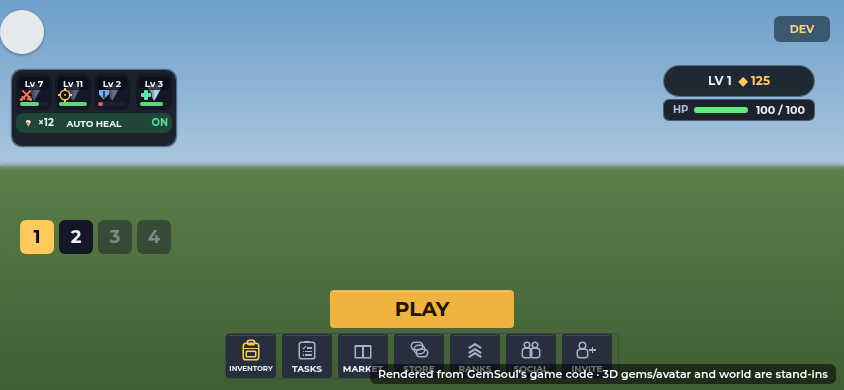
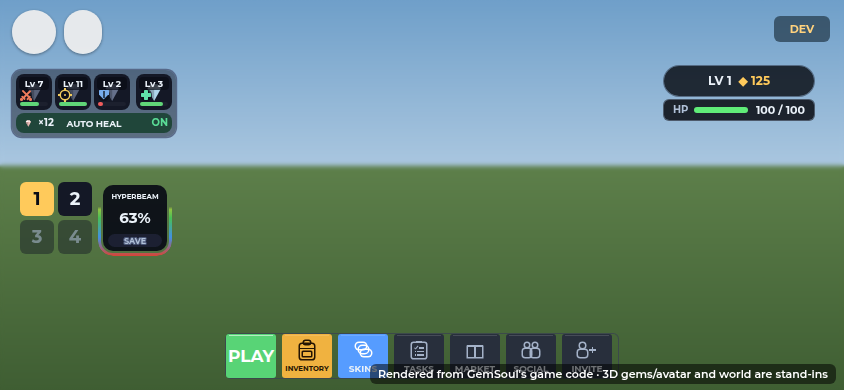
Phone: team keys 1-4 two by two, the HYPERBEAM beside them
The phone's team keys were a row of four above the move stick with the
HYPERBEAM button after them, 226 points across. Now the keys are two by
two (34 square, MobileLayout.keys) and the HYPERBEAM sits just right of
them, as tall as they are, its rim level with their top and bottom
(MobileLayout.beam, 64 wide): 150 points across.

- On the shortest phones (812 by 375) the keys shrink to 30 and sit
  nearer the stick to keep clear of CATCH; CATCH is 2 points shorter
  and 2 nearer the card (MobileLayout.Tame) to make the room.
- The tile's HYPERBEAM title keeps well in from its sides; on a phone
  it ran under the rim, cut off as HYPERBEA. Its state gets the tile's
  extra height.
- tests/mobile_layout_cases: two by two, full size from 844 by 390 up,
  clear of CATCH, the HYPERBEAM as tall as the keys and clear of the
  move stick, the pair no wider than the old row of keys alone.
- docs: kaiju.md and mobile.md, and their phone renders.

Claude-Session: https://claude.ai/code/session_01M9AaiFqQ2dWL5tTu8tuKaL

Changed region(s): [[0.2464, 0.7385, 0.6161, 0.9846], [0.0, 0.0308, 0.2156, 0.4], [0.0, 0.4615, 0.2156, 0.6769]]

diff --git a/docs/kaiju.md b/docs/kaiju.md
@@ -639,20 +639,27 @@ above the combat HUD near the bottom center:
   the world shows round the tiles; the tiles and AUTO HEAL keep their
   solid backs.
 
-  **The team keys 1 2 3 4 are off the card**: a row of their own, 34
-  points square, just above the move stick, under your left thumb
-  (`MobileLayout.keys`). They used to sit at the end of the row; while you
-  hunted the whole row moved over to the right, across the middle of the
-  screen and onto DODGE.
+  **The team keys 1 2 3 4 are off the card**, two by two (*2026-10-28*;
+  a row of four before), 34 points square, just above the move stick,
+  under your left thumb (`MobileLayout.keys`). On the shortest phones
+  (812 by 375) they're 30 and sit a little nearer the stick, to keep clear
+  of CATCH under the card. They used to sit at the end of the card's row;
+  while you hunted the whole row moved over to the right, across the
+  middle of the screen and onto DODGE.
 
   **The HYPERBEAM is a button of its own**, *2026-10-27*: just right of
-  the team keys, level with their bottom, over the FIGHT / MINE switch
-  (`MobileLayout.beam`, 60 by 52). It reads HYPERBEAM over its percent
-  (READY! when it's full), with SAVE a strip along its bottom; its meter is
-  its own rim, filling from the bottom up in your team's colours. It sits
-  clear of the fight's vitals and moves on the smallest phone.
+  the team keys and as tall as they are (its rim level with their top and
+  bottom), 64 wide, over the FIGHT / MINE switch (`MobileLayout.beam`).
+  *2026-10-28:* with the keys two by two it moved left beside them; the
+  keys and the button take 150 points across, where the row of keys and
+  the button took 226. It reads HYPERBEAM over its percent (READY! when
+  it's full), with SAVE a strip along its bottom; its meter is its own
+  rim, filling from the bottom up in your team's colours. Its title keeps
+  well in from the tile's sides (on a phone it ran under the rim, cut off
+  as HYPERBEA). It sits clear of the fight's vitals and moves on the
+  smallest phone.
 
-  ![The kaiju grid on a phone, the team keys above the move stick](kaiju/hud-phone-grid.png)
+  ![The kaiju grid on a phone, the team keys two by two above the move stick and the HYPERBEAM beside them. Offline render, not a Roblox screenshot](kaiju/hud-phone-grid.png)
 
   ![In a fight: before and now](kaiju/hud-phone-grid-hunting.png)
 
@@ -753,8 +760,8 @@ blast together. It works the same in mining and in fights.
   - **Blasting:** BLASTING!
 
   On a phone it isn't on the card: it's a button of its own right of the
-  team keys, its rim the meter, filling from the bottom up (the slot's
-  `Apart` attribute; see [Your team](#your-team)).
+  team keys and as tall as they are, its rim the meter, filling from the
+  bottom up (the slot's `Apart` attribute; see [Your team](#your-team)).
 
   It's light to run: it redraws only when what it shows changes, and moves
   only while it's ready.
@@ -763,7 +770,7 @@ blast together. It works the same in mining and in fights.
 
   ![The kaiju card with its outline as the HYPERBEAM meter: charging, saving, ready and blasting, its pill on the bottom edge. Offline render of the game's UI code, not a Roblox screenshot](kaiju/hyperbeam-states.png)
 
-  ![On a phone: the HYPERBEAM's own button right of the team keys, charging at 63% and ready. Offline render, not a Roblox screenshot](kaiju/hyperbeam-phone.png)
+  ![On a phone: the team keys two by two and the HYPERBEAM's own button beside them, charging at 63% and ready. Offline render, not a Roblox screenshot](kaiju/hyperbeam-phone.png)
 - **The blast** (`KaijuBeamServer`, 6.1 seconds, `KaijuBeam.timeline`).
   Since 2026-10-26 it all happens in front of you, seen from your own
   view: no cinematic camera.

diff --git a/docs/mobile.md b/docs/mobile.md
@@ -205,12 +205,15 @@ the left. Now:
   (`MobileLayout.kaiju`): the three fighters and the support in a row,
   AUTO HEAL a slim row under them. *2026-10-27:* it was one long row (351
   wide) that moved across the middle of the screen while you hunted.
-- **The team keys 1–4** have their own row just above the move stick,
-  under your left thumb (`MobileLayout.keys`; the team that's out is gold).
+- **The team keys 1–4** sit two by two just above the move stick, under
+  your left thumb (`MobileLayout.keys`; the team that's out is gold).
+  *2026-10-28:* they were a row of four; on the shortest phones they're
+  a little smaller, to keep clear of CATCH.
   There's no CALL BACK button: tap the team that's out to call it back,
   another team to send it out instead. See [kaiju.md](kaiju.md#your-team).
-- **The HYPERBEAM** is a button of its own just right of the team keys,
-  over the FIGHT / MINE switch (`MobileLayout.beam`): HYPERBEAM over its
+- **The HYPERBEAM** is a button of its own just right of the team keys
+  and as tall as they are, over the FIGHT / MINE switch
+  (`MobileLayout.beam`): HYPERBEAM over its
   percent, SAVE along its bottom, its rim the meter. It used to be a pill
   on the kaiju card's bottom edge.
 - **CATCH** comes up under your kaiju's card, as wide.
@@ -418,8 +421,8 @@ get out from under Roblox's buttons, which it used to sit under.
 | `UiKit.fit(label)` | Keeps a one-line label at its size, shrinking it only when its words don't fit |
 | `UiKit.shrinkRow(row, list)` | Shrinks a row laid out side by side to its parent's width when its contents outgrow it |
 | `MobileLayout.kaiju(screen)`, `kaijuCells(card)` | Your kaiju's small grid at the top left, where its tiles and AUTO HEAL go, and CATCH under it |
-| `MobileLayout.keys(screen)` | The team keys 1–4: a row just above the move stick |
-| `MobileLayout.beam(screen)` | The HYPERBEAM's own button: just right of the team keys, level with their bottom |
+| `MobileLayout.keys(screen)` | The team keys 1–4: two by two just above the move stick (smaller on the shortest phones, clear of CATCH) |
+| `MobileLayout.beam(screen)` | The HYPERBEAM's own button: just right of the team keys, as tall as they are |
 | `MobileLayout.card()` | The pick card's place: beside your kaiju's card |
 | `MobileLayout.foes(screen, viewY)` | The fight's foe list: top right, down to just over DODGE |
 | `MobileLayout.party(screen, rows)`, `setPartyRows(n)`, `onParty(fn)` | Teammates' rows under your HP bar, how many are up, and a call when that changes |
